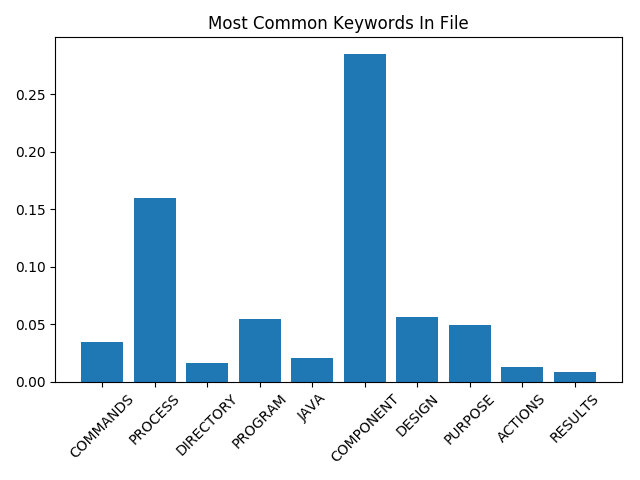
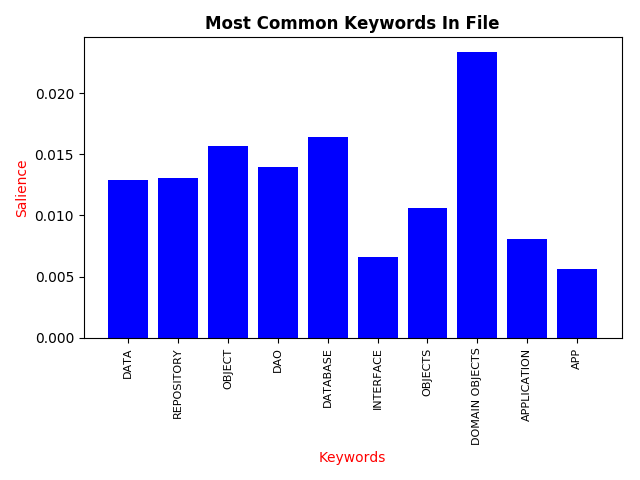
KeywordList class updated to allow unique instances of object. kwhighestfrequencies function added.

diff --git a/functionsv1/common_functions.py b/functionsv1/common_functions.py
@@ -11,7 +11,7 @@ from pdfminer.converter import TextConverter
 from pdfminer.layout import LAParams
 from pdfminer.pdfpage import PDFPage
 import Keyword
-import KeywordList
+from KeywordList import KeywordList
 from matplotlib import pyplot
 import numpy as np
 
@@ -157,7 +157,7 @@ def extractkeywordfromtxt(file):
     @type file: .txt
     @return: void
     """
-    keyword_list = KeywordList.KeywordList
+    keyword_list = KeywordList()
     i = 0
 
     f = open(file, 'r')
@@ -287,7 +287,7 @@ def getwordfrequency(word, file_text):
     test = longlongfiletext.count(word)
     return longlongfiletext.count(word)
 
-def plotmostcommon(file_text, keyword_list):
+def kwhighestfrequencies(keyword_list):
     """
     @param file_text:
     @type file_text: list of strings
@@ -297,7 +297,7 @@ def plotmostcommon(file_text, keyword_list):
     @rtype:
     """
 
-    kwlist = list(keyword_list.list)
+    kwlist = keyword_list.list
     topkeywords = []
     topKeywordfreqs = []
 
@@ -313,16 +313,73 @@ def plotmostcommon(file_text, keyword_list):
         kwlist[:] = [x for x in kwlist if x.word != topkeyword.word] # removes the previously added item so it does not get chosen again
         i += 1
 
+    return topkeywords
+
+def plothighestfreqkeywords(kwlist1, kwlist2):
+
+    # TODO: Make graph display proper values and display in a more user-friendly way
+    d = 0
+    y = np.empty(len(kwlist1))
+    p = np.empty(len(kwlist2))
+    my_xticks = []
+    w = 0.3
+    for x in range(len(kwlist1)):
+        word = kwlist1[x].word
+        s=0
+        while s < len(kwlist2):
+            if kwlist2[s].word == word:
+                my_xtick = word
+                my_xticks.append(my_xtick)
+                y[x] = kwlist1[x].salience
+                p[x] = kwlist2[s].salience
+                d+=1
+                break
+            else:
+                s+=1
+
+    if d == 0:
+        pyplot.bar(x,y)
+        pyplot.title('NO KEYWORDS TO PLOT', fontweight='bold')
+        pyplot.savefig(DOWNLOAD_FOLDER + 'topkeyword.png')
+        return
+    x = np.arange(d)
+    colors = np.random.rand(d)
+    pyplot.bar(x-w, y, width=w, color='blue', label='doc1')
+    pyplot.bar(x, p, width=w, color='r', label='doc2')
+    #pyplot.scatter(x - w, y, color='blue', label='doc1')
+    #pyplot.scatter(x, p, color='r', label='doc2')
+    #pyplot.plot(x,y)
+    #pyplot.plot(x - w, y, color='blue', label='doc1')
+    #pyplot.plot(x, p, color='r', label='doc2')
+    #pyplot.scatter(x,y,c=colors)
+    pyplot.xticks(x, my_xticks, fontsize=8, color='black', rotation=90)
+    pyplot.title('Most Common Keywords In File',fontweight='bold')
+    pyplot.xlabel('Keywords',fontsize=10, color='red')
+    pyplot.ylabel('Salience',fontsize=10, color='red')
+    pyplot.legend()
+    pyplot.tight_layout()
+    pyplot.savefig(DOWNLOAD_FOLDER + 'topkeyword.png')
+
+def plotmostcommon(keyword_list):
+    """
+    @param file_text:
+    @type file_text: list of strings
+    @param keyword_list:
+    @type keyword_list: list of keywords
+    @return:
+    @rtype:
+    """
+
     # TODO: Make graph display proper values and display in a more user-friendly way
     z = 0
-    y = np.empty(len(topkeywords))
+    y = np.empty(len(keyword_list))
     my_xticks = []
-    for tk in topkeywords:
-        my_xtick = topkeywords[z].word
+    for z in range(len(keyword_list)):
+        my_xtick = keyword_list[z].word
         my_xticks.append(my_xtick)
-        y[z] = topkeywords[z].salience
-        z += 1
-    x = np.arange(z)
+        y[z] = keyword_list[z].salience
+        
+    x = np.arange(len(my_xticks))
     colors = np.random.rand(z)
     pyplot.bar(x, y, color='blue')
     # pyplot.plot(x,y)

diff --git a/KeywordList.py b/KeywordList.py
@@ -1,24 +1,22 @@
 
 class KeywordList:
-    list = [] # List of keyword objects
-    uniquekeywords = 0
-    __keywordscore = 0
-    __yuleskscore = 0
 
     def __init__(self):
         self.list = []
         self.uniquekeywords = 0
+        self.keywordscore = 0
+        self.yuleskscore = 0
 
-    @classmethod
-    def getkeywordscore(cls):
-        return cls.__keywordscore
 
-    @classmethod
-    def getyuleskscore(cls):
-        return cls.__yuleskscore
+    def getkeywordscore(self):
+        return self.keywordscore
 
-    @classmethod
-    def insertkeyword(cls, keyword):
+
+    def getyuleskscore(self):
+        return self.yuleskscore
+
+
+    def insertkeyword(self, keyword):
         """
         @summary:
         @param keyword: an instance of the class Keyword
@@ -30,16 +28,16 @@ class KeywordList:
         # Check "similar words" lists
 
         # Check for exact "word"
-        if not cls.existsinlist(keyword.word.upper()):
-            cls.list.append(keyword)
-            cls.uniquekeywords += 1
+        if not self.existsinlist(keyword.word.upper()):
+            self.list.append(keyword)
+            self.uniquekeywords += 1
         else:
-            index = cls.getindexofword(keyword.word.upper())
-            cls.list[index].frequency += 1
+            index = self.getindexofword(keyword.word.upper())
+            self.list[index].frequency += 1
 
 
-    @classmethod
-    def existsinlist(cls, keyword_name):
+
+    def existsinlist(self, keyword_name):
         """
         @summary: searches through the list of keywords and sees if any keywords shares the same Keyword.word
         @param keyword_name:
@@ -47,14 +45,14 @@ class KeywordList:
         @return: returns true if a keyword with keyword_name as Keyword.word exists in the list. False otherwise.
         @rtype: bool
         """
-        for i in range(0, len(cls.list)):
-            if cls.list[i].word == keyword_name:
+        for i in range(0, len(self.list)):
+            if self.list[i].word == keyword_name:
                 return True
         return False
 
-    @classmethod
-    def getindexofword(cls, keyword_name):
-        for i in range(0, len(cls.list)):
-            if cls.list[i].word == keyword_name:
+
+    def getindexofword(self, keyword_name):
+        for i in range(0, len(self.list)):
+            if self.list[i].word == keyword_name:
                 return i
-        return -1;
+        return -1

diff --git a/functionsv1/analyze_functions.py b/functionsv1/analyze_functions.py
@@ -8,7 +8,7 @@ from google.cloud.language import types
 from oauth2client.service_account import ServiceAccountCredentials
 from functionsv1 import common_functions
 import six
-import KeywordList
+from KeywordList import KeywordList
 from collections import Counter
 
 LOG_FILE_PATH = 'logging/Linguistic_Analyzer.log'
@@ -58,7 +58,7 @@ def identifykeywords(file_text):
     """implicit call for authentication: add export GOOGLE_APPLICATION_CREDENTIALS= "/path/to/json file" 
         in bash.profile and bash.profile_pysave"""
 
-    keyword_list = KeywordList.KeywordList
+    keyword_list = KeywordList()
 
     client = language.LanguageServiceClient()
 
@@ -113,7 +113,7 @@ def identifykeywordswithsentiment(file_text):
     """implicit call for authentication: add export GOOGLE_APPLICATION_CREDENTIALS= "/path/to/json file" 
         in bash.profile and bash.profile_pysave"""
 
-    keyword_list = KeywordList.KeywordList
+    keyword_list = KeywordList()
 
     client = language.LanguageServiceClient()
 

diff --git a/app.py b/app.py
@@ -82,8 +82,8 @@ def analyze():
                 print(keyword_list.list[i].word + '-' + str(keyword_list.list[i].frequency))
 
             common_functions.outputkeywordtotext(keyword_list)
-
-            common_functions.plotmostcommon(file_text, keyword_list)
+            kw1 = common_functions.kwhighestfrequencies(keyword_list)
+            common_functions.plotmostcommon(kw1)
 
             f = open("views/score_response.html", "r")
             returnhtml = f.read().replace('#--KEYWORD_SCORE--#', str(keyword_list.getkeywordscore())).\
